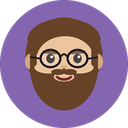
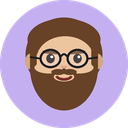
Lighter background for Мухаммад's face
His brown hair and beard sat on a mid purple with little contrast; the
disc is now a light lavender, still his colour, with the face standing
out clearly.

Claude-Session: https://claude.ai/code/session_01VVyC4KaHFkdZjDhihxHS3w

diff --git a/tool/generate_avatars.py b/tool/generate_avatars.py
@@ -64,7 +64,7 @@ PEOPLE = [
     # file, background, hair, face width, beard, glasses
     ('azamat', (196, 160, 92, 255), BLACK_HAIR, 1.0, 'long', False),
     ('aslan', (74, 150, 140, 255), BLACK_HAIR, 0.78, 'short', False),
-    ('muhammad', (132, 102, 176, 255), BROWN_HAIR, 1.0, 'medium', True),
+    ('muhammad', (196, 176, 240, 255), BROWN_HAIR, 1.0, 'medium', True),
     ('imran', (78, 128, 200, 255), BLACK_HAIR, 0.96, None, True),
 ]
 
